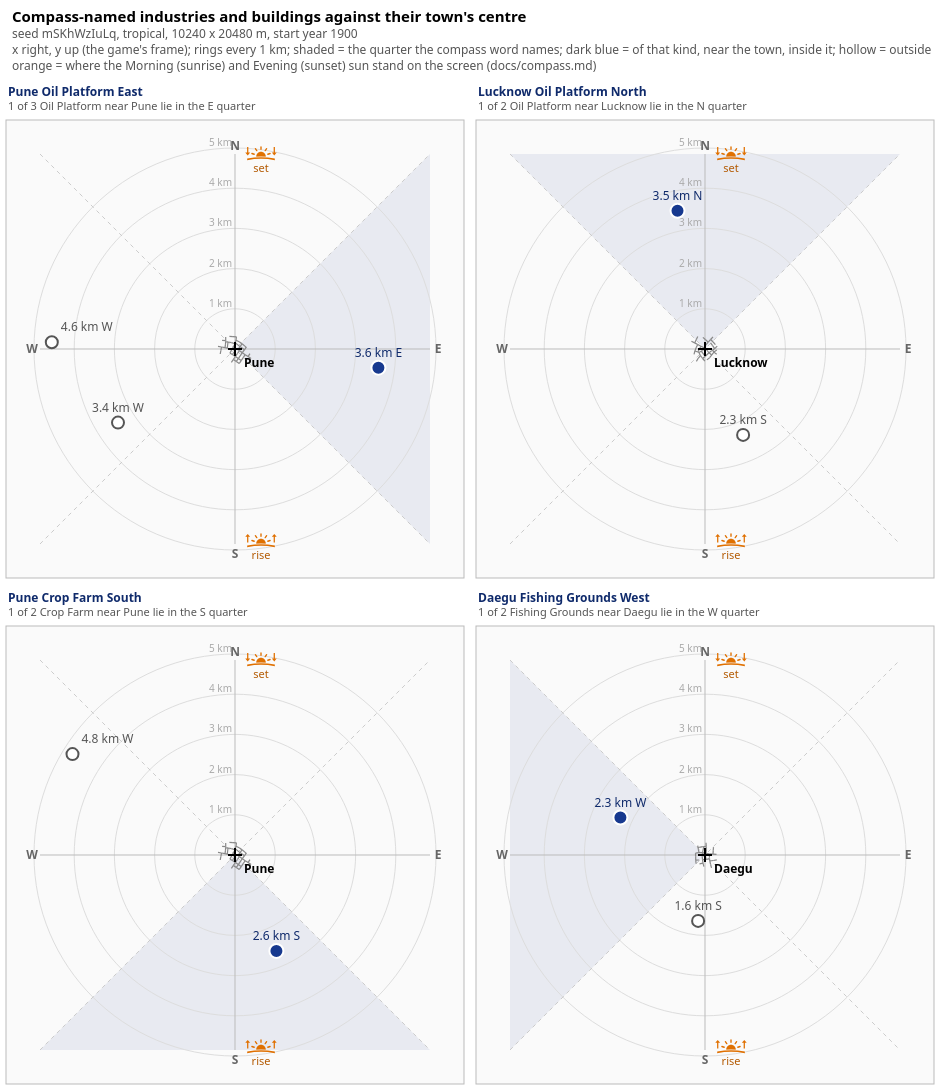
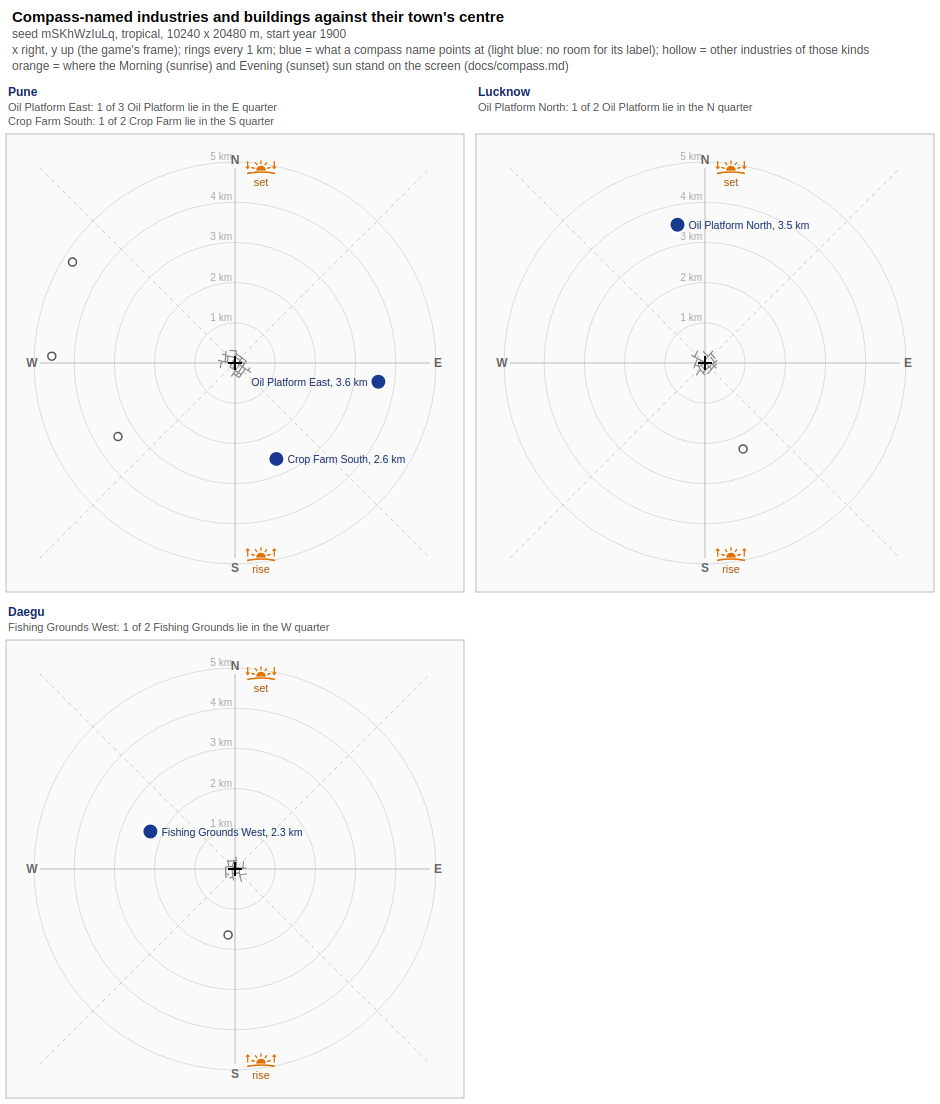
tools, docs: industry_compass.py draws one picture per town, with its surest compass names labelled
One plot per town instead of one per name. The --top N surest names of a town (default 4: exactly one same-kind candidate in the named quarter first, then fewer there, then more rivals outside it, then a clearer margin) are drawn as blue dots labelled with the name minus the town and the distance; the other same-kind industries are small hollow grey circles with no label. A labelled dot is twice the area of an unlabelled one; a blue dot with no room for its label is light blue. Labels are placed beside their dot where they overlap nothing. The quarter shading and the town name inside the plot are gone (the town is the panel's header). --max-panels is replaced by --across (default 2) and --down (default 3), a portrait page of six towns. docs/compass.md: both pictures redrawn and their captions rewritten.

diff --git a/tools/industry_compass.py b/tools/industry_compass.py
@@ -2,12 +2,13 @@
 """Test the compass words in industry names against where the industries stand, and plot them.
 
 Usage:
-  industry_compass.py SAVE.sav OUT.svg [--all-names] [--stream]
+  industry_compass.py SAVE.sav OUT.svg [--top N] [--across N] [--down N] [--no-sun] [--stream]
 
 The game names a second industry of a kind near a town `<Town> <Kind> North` (or South, East, West)
 when it lies in that direction from the town (docs/compass.md). This reads a save's town names, the
 street edges (the town centres), the industry model instances and the entity names, finds the
-industries with a compass word, and draws each one against its town's centre, x to the right and y
+industries with a compass word, and draws one picture per town: the industries its compass names point at (dark blue, named, with
+their distance) and the other same-kind ones near it (hollow), against the town's centre, x to the right and y
 up (the game's own frame). It prints, for every compass name, how many same-kind industries near
 the town lie in the sector the word names under the game frame (x east, y north) and under the sun
 frame (north is +x, east is -y), so the two can be compared (docs/compass.md).
@@ -181,37 +182,40 @@ def icon_symbols():
     return out
 
 
-def svg(panels, title, sun=True):
-    far = max([math.hypot(i["dx"], i["dy"]) for p in panels for i in p["cands"]] + [1000.0])
+def svg(panels, title, sun=True, across=2):
+    """One panel per town. A panel has `town`, `centre`, `edges`, `names` (one dict per compass name:
+    name, kind, word, `cands`) and `pts` (every same-kind industry of those names near the town:
+    dx, dy, and `label` for the ones inside the quarter their name gives, else None)."""
+    far = max([math.hypot(i["dx"], i["dy"]) for p in panels for i in p["pts"]] + [1000.0])
     rng = math.ceil(far * 1.03 / 1000.0) * 1000.0
-    cols = 2 if len(panels) <= 4 else 3 if len(panels) <= 9 else 4
-    w = 470 if cols < 4 else 430
-    rows = -(-len(panels) // cols)
+    w = 470
     s = (w / 2 - 34) / rng
-    head, strip = 78, 36
+    head = 78
+    cols = min(across, len(panels))
+    rows = -(-len(panels) // cols)
+    strips = [22 + 14 * max(len(p["names"]) for p in panels[r * cols:(r + 1) * cols]) for r in range(rows)]
+    tops = [head + sum(w + st for st in strips[:r]) for r in range(rows)]
     out = ['<svg xmlns="http://www.w3.org/2000/svg" width="%d" height="%d" font-family="sans-serif" font-size="12">'
-           % (w * cols, head + (w + strip) * rows), '<rect width="100%" height="100%" fill="#fff"/>',
+           % (w * cols, head + sum(w + st for st in strips)), '<rect width="100%" height="100%" fill="#fff"/>',
            '<text x="12" y="22" font-size="15" font-weight="bold">%s</text>' % title.partition(" (")[0],
            '<text x="12" y="38" fill="#555">%s</text>' % title.partition(" (")[2].rstrip(")"),
-           '<text x="12" y="54" fill="#555">x right, y up (the game\'s frame); rings every 1 km; shaded = the quarter the compass word names; '
-           'dark blue = of that kind, near the town, inside it; hollow = outside</text>']
+           '<text x="12" y="54" fill="#555">x right, y up (the game\'s frame); rings every 1 km; blue = what a compass name points at (light blue: no room for its label); '
+           'hollow = other industries of those kinds</text>']
     if sun:
         out.append('<text x="12" y="70" fill="#555">orange = where the Morning (sunrise) and Evening (sunset) sun stand on the screen (docs/compass.md)</text>')
     symbols = icon_symbols() if sun else {}
     if symbols:
         out.append("<defs>%s</defs>" % "".join(symbols.values()))
     for k, p in enumerate(panels):
-        cell_y = head + (k // cols) * (w + strip)
+        cell_y, strip = tops[k // cols], strips[k // cols]
         ox, oy = (k % cols) * w + w / 2, cell_y + strip + w / 2
-        inside = [i for i in p["cands"] if i["sec"] == p["word"]]
         d = rng * s * 0.97
-        g = ['<g>', '<text x="%.0f" y="%.0f" font-weight="bold" fill="#0f2a6b">%s</text>' % (ox - w / 2 + 8, cell_y + 18, p["name"]),
-             '<text x="%.0f" y="%.0f" font-size="11" fill="#555">%d of %d %s near %s lie in the %s quarter</text>'
-             % (ox - w / 2 + 8, cell_y + 32, len(inside), len(p["cands"]), p["kind"], p["town"], p["word"]),
-             '<rect x="%.0f" y="%.0f" width="%d" height="%d" fill="#fafafa" stroke="#bbb"/>' % (ox - w / 2 + 6, oy - w / 2 + 6, w - 12, w - 12)]
-        wedge = {"N": (-d, -d, d, -d), "S": (-d, d, d, d), "E": (d, -d, d, d), "W": (-d, -d, -d, d)}[p["word"]]
-        g.append('<polygon points="%.1f,%.1f %.1f,%.1f %.1f,%.1f" fill="#17398f" fill-opacity="0.08"/>'
-                 % (ox, oy, ox + wedge[0], oy + wedge[1], ox + wedge[2], oy + wedge[3]))
+        g = ['<g>', '<text x="%.0f" y="%.0f" font-weight="bold" fill="#0f2a6b">%s</text>' % (ox - w / 2 + 8, cell_y + 18, p["town"])]
+        for n, nm in enumerate(p["names"]):
+            inside = [i for i in nm["cands"] if i["sec"] == nm["word"]]
+            g.append('<text x="%.0f" y="%.0f" font-size="11" fill="#555">%s: %d of %d %s lie in the %s quarter</text>'
+                     % (ox - w / 2 + 8, cell_y + 33 + 14 * n, nm["label"], len(inside), len(nm["cands"]), nm["kind"], nm["word"]))
+        g.append('<rect x="%.0f" y="%.0f" width="%d" height="%d" fill="#fafafa" stroke="#bbb"/>' % (ox - w / 2 + 6, oy - w / 2 + 6, w - 12, w - 12))
         for r in range(1000, int(rng) + 1, 1000):
             g.append('<circle cx="%.1f" cy="%.1f" r="%.1f" fill="none" stroke="#ddd"/>' % (ox, oy, r * s))
             g.append('<text x="%.1f" y="%.1f" fill="#aaa" font-size="10" text-anchor="end">%d km</text>' % (ox - 3, oy - r * s - 2, r // 1000))
@@ -233,17 +237,39 @@ def svg(panels, title, sun=True):
             g.append('<line x1="%.1f" y1="%.1f" x2="%.1f" y2="%.1f" stroke="#888" stroke-width="1.2"/>'
                      % (ox + (x0 - cx) * s, oy - (y0 - cy) * s, ox + (x1 - cx) * s, oy - (y1 - cy) * s))
         g.append('<path d="M%.1f %.1fH%.1fM%.1f %.1fV%.1f" stroke="#000" stroke-width="2"/>' % (ox - 7, oy, ox + 7, ox, oy - 7, oy + 7))
-        g.append('<text x="%.1f" y="%.1f" font-weight="bold">%s</text>' % (ox + 9, oy + 18, p["town"]))
-        for i in p["cands"]:
-            hit = i["sec"] == p["word"]
-            g.append('<circle cx="%.1f" cy="%.1f" r="%d" fill="%s" stroke="%s" stroke-width="2"/>'
-                     % (ox + i["dx"] * s, oy - i["dy"] * s, 7 if hit else 6, "#17398f" if hit else "#fff", "#fff" if hit else "#555"))
-            if len(p["cands"]) <= 3:                      # few enough to label without crowding
-                x_off = i["dx"] * s
-                anchor = "end" if x_off > w / 2 - 90 else "start" if x_off < -w / 2 + 90 else "middle"
-                g.append('<text x="%.1f" y="%.1f" text-anchor="%s" fill="%s">%.1f km %s</text>'
-                         % (ox + x_off + {"end": -9, "start": 9, "middle": 0}[anchor], oy - i["dy"] * s - 11, anchor,
-                            "#0f2a6b" if hit else "#555", math.hypot(i["dx"], i["dy"]) / 1000, i["sec"]))
+        pts = sorted(p["pts"], key=lambda i: i["label"] is not None)      # the blue dots last, on top
+        taken = []                                                    # boxes a label must keep clear of: the dots, then labels
+        for i in pts:
+            r = 9 if i["label"] else 5
+            taken.append((ox + i["dx"] * s - r, oy - i["dy"] * s - r, ox + i["dx"] * s + r, oy - i["dy"] * s + r))
+        # labels: the dots a name settles first, nearest the town first; each goes where it overlaps nothing placed
+        # so far, or is left off (the line under the town's name still counts it)
+        for i in sorted((i for i in pts if i["label"]), key=lambda i: (i["amb"], math.hypot(i["dx"], i["dy"]))):
+            px, py = ox + i["dx"] * s, oy - i["dy"] * s
+            text = "%s, %.1f km" % (i["label"], math.hypot(i["dx"], i["dy"]) / 1000)
+            tw_, th = 5.7 * len(text), 12
+            spots = [(px + 11, py + 4, "start"), (px - 11, py + 4, "end"), (px, py - 12, "middle"), (px, py + 20, "middle"),
+                     (px + 9, py - 10, "start"), (px - 9, py - 10, "end"), (px + 9, py + 18, "start"), (px - 9, py + 18, "end")]
+            for tx, ty, anchor in spots:
+                x0 = tx - (tw_ if anchor == "end" else tw_ / 2 if anchor == "middle" else 0)
+                box = (x0, ty - th + 2, x0 + tw_, ty + 3)
+                if box[0] < ox - w / 2 + 8 or box[2] > ox + w / 2 - 8 or box[1] < oy - w / 2 + 8 or box[3] > oy + w / 2 - 8:
+                    continue
+                if any(box[0] < q[2] and q[0] < box[2] and box[1] < q[3] and q[1] < box[3] for q in taken
+                       if q != (px - 9, py - 9, px + 9, py + 9)):
+                    continue
+                taken.append(box)
+                i["shown"] = True
+                g.append('<text x="%.1f" y="%.1f" text-anchor="%s" font-size="10.5" fill="#0f2a6b">%s</text>' % (tx, ty, anchor, text))
+                break
+        for i in pts:
+            px, py = ox + i["dx"] * s, oy - i["dy"] * s
+            if i["label"] is None:
+                g.append('<circle cx="%.1f" cy="%.1f" r="4" fill="#fff" stroke="#555" stroke-width="1.5"/>' % (px, py))
+            elif i.get("shown"):                                      # a labelled dot is twice the area of the others
+                g.append('<circle cx="%.1f" cy="%.1f" r="8" fill="#17398f" stroke="#fff" stroke-width="2"/>' % (px, py))
+            else:                                                     # a blue dot too crowded for its label is a lighter blue
+                g.append('<circle cx="%.1f" cy="%.1f" r="4" fill="#a9b8e3" stroke="#17398f" stroke-width="1.5"/>' % (px, py))
         g.append('</g>')
         out += g
     out.append('</svg>')
@@ -255,9 +281,12 @@ def main():
     ap.add_argument("save")
     ap.add_argument("out")
     ap.add_argument("--stream", action="store_true", help="the file is a decompressed stream")
-    ap.add_argument("--max-panels", type=int, default=6, help="draw at most this many panels, the most telling first "
-                    "(default 6): exactly one same-kind candidate in the named quarter, then more candidates near the "
-                    "town, then a clearer margin")
+    ap.add_argument("--across", type=int, default=2, help="towns per row (default 2)")
+    ap.add_argument("--down", type=int, default=3, help="rows (default 3: with 2 across, a portrait page of six towns, "
+                    "the towns with the surest names first)")
+    ap.add_argument("--top", type=int, default=4, help="draw the N surest compass names of each town (default 4): "
+                    "exactly one same-kind candidate in the named quarter first, then fewer there, then more rivals "
+                    "outside it, then a clearer margin")
     ap.add_argument("--no-sun", action="store_true", help="leave the sunrise and sunset icons off the panels")
     args = ap.parse_args()
     data, names, towns, inds, clusters = read(args.save, args.stream)
@@ -269,7 +298,7 @@ def main():
         c = clusters[town_cl[tw]]["c"] if tw in town_cl else None
         print("  %-14s group %s centre %s" % (tw, town_cl.get(tw), "%.0f, %.0f" % c if c else "-"))
     kinds = {i["kind"] for i in inds}
-    panels, tally = [], collections.Counter()
+    by_town, tally = collections.OrderedDict(), collections.Counter()
     for name, tw, lab, word in compass_names(towns, names):
         if tw not in town_cl or lab not in kinds:
             print("%-34s skipped (town or kind not matched)" % name)
@@ -288,19 +317,36 @@ def main():
               % (name, len(cands), word, res["game"], res["sun"]))
         for i in cands:
             i["sec"] = sector(i["dx"], i["dy"], "game")
-        panels.append({"name": name, "town": tw, "kind": lab, "word": word, "centre": c["c"], "edges": c["edges"], "cands": cands})
-    print("compass names: %d. Names with a candidate in the sector the word names, and with exactly one, per frame:" % len(panels))
+        inside = [i for i in cands if i["sec"] == word]
+        margin = max([max(abs(i["dx"]), abs(i["dy"])) / (min(abs(i["dx"]), abs(i["dy"])) or 1.0) for i in inside] or [0])
+        # how sure the name is: exactly one candidate in its quarter, then fewer there, then more rivals of the kind
+        # outside it, then a clearer margin (the larger offset over the smaller one)
+        rank = (len(inside) != 1, not inside, len(inside), -len(cands), -margin)
+        p = by_town.setdefault(tw, {"town": tw, "centre": c["c"], "edges": c["edges"], "names": []})
+        p["names"].append({"name": name, "label": name[len(tw) + 1:], "kind": lab, "word": word, "cands": cands, "rank": rank})
+    panels = list(by_town.values())
+    n_names = sum(len(p["names"]) for p in panels)
+    for p in panels:                                                  # the --top surest names of each town are drawn
+        p["names"].sort(key=lambda nm: nm["rank"])
+        del p["names"][args.top:]
+        p["rank"] = p["names"][0]["rank"]
+        pts = {}
+        for nm in p["names"]:
+            for i in nm["cands"]:                                     # one point per instance; blue if a name points at it
+                pt = pts.setdefault(id(i), {"dx": i["dx"], "dy": i["dy"], "label": None})
+                if i["sec"] == nm["word"]:
+                    pt["label"] = nm["label"]
+                    pt["amb"] = sum(j["sec"] == nm["word"] for j in nm["cands"]) > 1   # the name fits more than one instance
+        p["pts"] = list(pts.values())
+    print("compass names: %d in %d towns. Names with a candidate in the sector the word names, and with exactly one, per frame:"
+          % (n_names, len(panels)))
     for frame in sorted(FRAMES, key=lambda f: -tally[(f, "some")]):
         print("  %-28s %2d  %2d%s" % (frame, tally[(frame, "some")], tally[(frame, "one")],
                                       "  (game: x east, y north)" if frame == "game" else "  (sun: north +x, east -y)" if frame == "sun" else ""))
-    for p in panels:
-        inside = [i for i in p["cands"] if i["sec"] == p["word"]]
-        margin = max([max(abs(i["dx"]), abs(i["dy"])) / (min(abs(i["dx"]), abs(i["dy"])) or 1.0) for i in inside] or [0])
-        p["rank"] = (len(inside) != 1, len(inside), -len(p["cands"]), -margin)
     panels.sort(key=lambda p: p["rank"])
-    if len(panels) > args.max_panels:
-        print("drawing the %d most telling of %d panels (--max-panels)" % (args.max_panels, len(panels)))
-        panels = panels[:args.max_panels]
+    if len(panels) > args.across * args.down:
+        print("drawing the %d most telling of %d towns (--across, --down)" % (args.across * args.down, len(panels)))
+        panels = panels[:args.across * args.down]
     if panels:
         hd = read_header(args.save) if not args.stream else {}
         where = ""
@@ -308,7 +354,7 @@ def main():
             clim = re.search(r"climates/(\w+)/", dict(hd["resources"]).get("climate", "") if not isinstance(hd["resources"], dict) else hd["resources"].get("climate", ""))
             where = " (seed %s, %s, %d x %d m, start year %s)" % (hd["map_seed"], clim.group(1) if clim else "?", hd["map_w_m"], hd["map_h_m"], hd["start_year"])
         open(args.out, "w").write(svg(panels, "Compass-named industries and buildings against their town's centre" + where,
-                                           sun=not args.no_sun))
+                                           sun=not args.no_sun, across=args.across))
         print("wrote", args.out)
     else:
         print("no compass-named industry found")

diff --git a/tools/README.md b/tools/README.md
@@ -15,7 +15,7 @@ None of these scripts write a save. For editing, see [tf3-save-editor](https://g
 | `notifications.py SAVE.sav [--type REGEX] [--since CLOCK] [--last N] [--open] [--json]`, `--summary`, `--lines` | List the entries of the notifications state ([docs/notifications.md](../docs/notifications.md)), oldest first: id, clock, type, flags (dismissed, expired, tracked, persisting), entity ids, the names kept in `simParams`, and the other params. `--summary` counts entries per type and the bookkeeping tables; `--lines` lists the line entities that `line_warning` entries name (entity, `lineName`, whether the line is a key of `line2problemTimestamp`, `lineProblem`, `lineIssues`). `--stream` takes an already decompressed stream. Importable as `read_notifications(data)` and `entries(state)`. A string that looks like a path is masked. Used in [docs/analysis-examples/](../docs/analysis-examples/CLAUDE.md) |
 | `town_states.py SAVE.sav [...]` | Print the per-town rating state from the `townStates` table |
 | `street_edges.py SAVE.sav [--near X,Y,R] [--type REGEX] [--nodes] [--ids] [--json]`, `--diff OLD NEW` | List the street edges ([docs/road-network.md](../docs/road-network.md)): end node ids, end positions, street or track type and length per edge, or per node; `--ids` adds each edge's entity id where the strip table has an entry; `--diff` compares two saves and prints the edges added, removed or changed. Importable as `read_edges(data)` |
-| `industry_compass.py SAVE.sav OUT.svg [--max-panels N] [--no-sun]` | Test the compass words in industry and building names ([docs/compass.md](../docs/compass.md)): for each name ending in North, South, East or West, count the same-kind industries, depots and boathouses near that town in the quarter the word names, under each of eight frames of x and y, and draw the most telling six against the town's centre (the game's frame, orange sunrise and sunset icons from `icons/`). The town centre is the mean of its street nodes. A PNG is a browser screenshot of the SVG |
+| `industry_compass.py SAVE.sav OUT.svg [--top N] [--across N] [--down N] [--no-sun]` | Test the compass words in industry and building names ([docs/compass.md](../docs/compass.md)): for each name ending in North, South, East or West, count the same-kind industries, depots and boathouses near that town in the quarter the word names, under each of eight frames of x and y, and draw one picture per town (2 across and 3 down by default, the most telling towns first), with the surest N names (4 by default) drawn, the named industries in blue and the other same-kind ones hollow, against the town's centre (the game's frame, orange sunrise and sunset icons from `icons/`). The town centre is the mean of its street nodes. A PNG is a browser screenshot of the SVG |
 | `parcels.py SAVE.sav [--near X,Y,R] [--json] [--points]`, `parcels.py --diff OLD.sav NEW.sav [--near X,Y,R]` | List the parcel table ([docs/parcels.md](../docs/parcels.md)): without options a summary (where the table starts, parcels, street edges, faces, how often each flag word and tail value occurs); `--near` one line per parcel with its first face near the point (table index, street edge id, side, position along the edge, the flag word of each face, centre of the first face); `--json` the same as JSON, `--points` with the corners of every face. `--diff` compares two saves of one game by table index and prints the parcels whose flag words changed, the number of parcels appended and, with `--near`, only those near a point. Importable as `read_parcels(data)`. `--stream` reads an already decompressed stream. Takes under a second on a 150 MB stream. The parcel's own entity id is not in the table, so it prints the index |
 | `model_instances.py SAVE.sav [--near X,Y,R] [--prefix PATH] [--stream]` | List the model instances ([docs/models.md](../docs/models.md)) whose model path starts with `--prefix` (default `vehicle/`): slot, model, position and facing (the first row of the transform). Importable as `read_model_table(data)` and `read_instances(data, prefixes)`. Reads the whole stream (about 20 s for 700 MB). A vehicle's name and entity id are not next to its instance, so a vehicle is named by model and slot; the slot is only good within one save |
 | `terrain_map.py OUT_DIR SAVE.sav [...] [--mpp M] [--crop X,Y,R] [--grid N] [--png] [--north game\|sun] [--game DIR] [--no-network] [--depots] [--coverage]` | Draw the heightmap with the street-edge table's roads and rails on top ([docs/terrain.md](../docs/terrain.md#drawing-the-map)). The default output is an SVG: the terrain (height ramp, hill shading, water) as an embedded PNG, and the roads (grey) and rails (red) as vector paths in map metres, in layers a page script can toggle: every layer is a `g.layer` with its id in `data-layer`, roads and rails have a sublayer per type with one `<path data-a data-b>` per edge, vehicles one sublayer per class with a `<g class="vehicle" data-slot data-model data-class>` each, labels and end nodes their own sublayers (the full list is in the script's docstring). Line widths are in metres, so they scale with the terrain in any viewer, and in proportion to the street or track type's vehicle lane count over two (read from the install's templates at run time; `--game DIR` names the install, otherwise the usual Steam folders are tried). Output names have no spaces, and a crop's name carries its centre and radius. The SVG's `<metadata>` holds one `tf3map:view` element (namespace `urn:tf3-save-format:terrain-map:1`) with the save's file name, the map size, the metres per pixel, the map point at the picture's top-left corner, the x and y range it covers, the crop and the grid step, so a picture can be turned back into map coordinates without its command line. `--png` writes one flat PNG instead. `--mpp` is the terrain's metres per pixel, a multiple of 4, default 4 (the grid's own spacing); a picture over 64 million pixels is refused until `--mpp` is raised (the 20 x 41 km Giant map is 52 million at 4 m: 42 s, 1.3 GB, an 81 MB SVG). `--grid N` (SVG only) adds a labelled line every N metres of map x and y, as a fourth layer, so a place seen in the picture can be turned into `--crop` coordinates. `--label A>B[=TEXT]` (repeat; SVG only) adds a `labels` layer naming just the edges asked for by their end node ids in hex (`2a619>342aa`), above the vehicles, each in its own light colour (the text's halo) with a white dot, black ring, at both ends (a node shared by two labelled edges gets a dot of two halves, one in each edge's colour, the half toward its edge); `--edge-ids` adds the edge's entity id where the strip table has one. `--vehicles` (needs `--crop`) adds a `vehicles` layer: each `vehicle/` model instance as a five-sided shape (a rectangle with a pointed front end, white outline, mid-dark grey for trains and trams; interior dark orange for a train engine, light orange for its trailing cars, purple tram, dark blue truck, dark green bus, dark grey ship, mid grey car), sized by class, with text only where `--name SLOT=TEXT` gives it (a default name is shortened: `Road Vehicle 279` is `RV279`, `Train 58` `RR58`, `Ship 106` `S106`, `Tram 62` `TRM62`, `Aircraft 6` `AIR6`) (the run prints every instance drawn with its slot, so a second run can name them). `--depots` (SVG only) adds `maintenance-buildings`, `road-depots`, `tram-depots`, `rail-maintenance-buildings`, `rail-depots`, `ship-maintenance-buildings`, `ship-depots` and `boathouses` layers: each building as its ground face (one colour per carrier, provisional: road orange, tram purple, rail teal, ship pink; black outline; a boathouse of the Boathouse mod has no face, only the dot and line), origin dot and a line along the model's x axis, placed from the instance's origin and facing ([docs/models.md](../docs/models.md#road-maintenance-buildings-and-depots-origin-facing-footprint-and-coverage)); `--coverage` adds a `coverage` layer under the roads with a dashed circle per building at the script's catchment radius (sublayers per kind, `data-pool` and `data-modes` on each). Both read the footprint, radius and pool from the install's `depots/road.zip` at run time (without an install nothing is drawn), need no `--crop`, and leave out aircraft maintenance; the boathouse's radius and pool are read from the mod's folder (`--mods DIR`, default the usual mod.io places), and the free Boathouse asset shares its model. `--zoom N` opens the SVG N times larger. `--crop X,Y,R` draws only the square of half-width R metres around a map point, and with it `--mpp` may be 1 or 2 (terrain interpolated). Writes only the picture. A sample picture: [docs/samples/terrain-map-area-labelled-6425796.svg](../docs/samples/terrain-map-area-labelled-6425796.svg) |

diff --git a/docs/compass.md b/docs/compass.md
@@ -28,13 +28,13 @@ Other notes written before that date may give a direction with the sun's axes; w
 
 The remaining four frames scored 6 to 8 in the second game and 0 to 2 in the first. The mirrors that keep one axis fit about two thirds of the names, because a candidate often sits where both frames agree. Only the game's frame fits all of them. **Observed**: the compass words are taken with x east and y north.
 
-![Four industries named with a compass word, each against its town's centre](images/compass-mSKhWzIuLq-tropical-large-1to2-towns-sparse-industry-packed-hard.png)
+![Four industries named with a compass word, one picture per town](images/compass-mSKhWzIuLq-tropical-large-1to2-towns-sparse-industry-packed-hard.png)
 
-The first game's four names, each in the shaded quarter its word names. Orange icons mark where the sun stands at Morning and Evening on the screen (below).
+The first game's four names, one picture per town: blue dots are the industries the names point at, hollow ones the other same-kind industries near the town. Orange icons mark where the sun stands at Morning and Evening on the screen (below).
 
-![The six most telling compass names of a played game](images/compass-XNGDTtYKhe-subarctic-small-1to3-towns-sparse-industry-medium-1920-04.png)
+![The surest compass names of each town of a played game](images/compass-XNGDTtYKhe-subarctic-small-1to3-towns-sparse-industry-medium-1920-04.png)
 
-The six most telling of the second game's 24 (exactly one same-kind candidate in the quarter, then more candidates nearby). In a played game the centre drifts as the town grows, and a name was fixed when its thing was placed, so the fit there is looser than in a new game.
+The second game, the four surest names of each of its three towns (of 24 names; exactly one same-kind candidate in the quarter first, then fewer there, then more rivals outside it). A light blue dot had no room for its label. In a played game the centre drifts as the town grows, and a name was fixed when its thing was placed, so the fit there is looser than in a new game.
 
 What the words do not settle:
 
